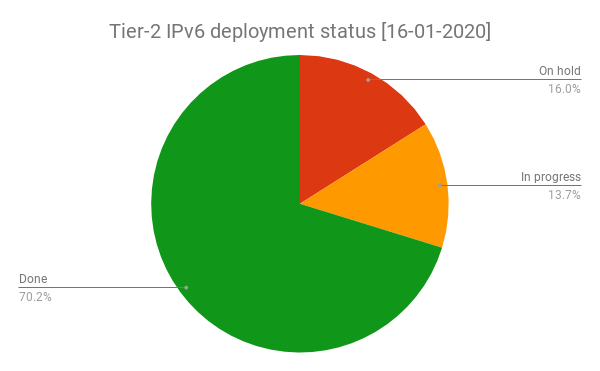
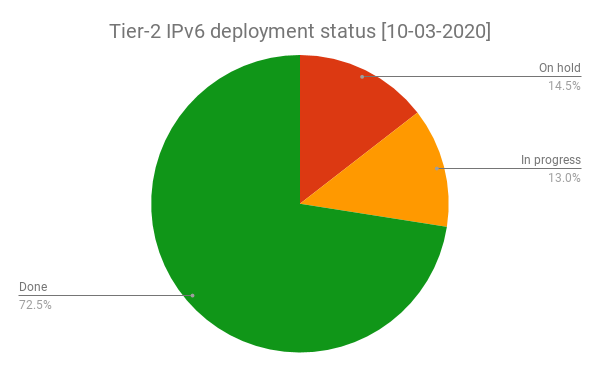
Updated T2 plots and added T1 storage numbers

diff --git a/chep2019_paper/subsection-2b-Tier2.tex b/chep2019_paper/subsection-2b-Tier2.tex
@@ -1,5 +1,5 @@
 \subsection{Deployment at Tier-2 sites}
-The deployment of IPv6 at Tier-2 sites is proceeding even after the
+The deployment of IPv6 at Tier-2 sites is still proceeding even after the
 official deadline expired at the end of 2018. It was decided not to
 give the deadline a formal extension, but just to encourage all
 remaining sites to complete the IPv6 deployment ``as soon as
@@ -9,7 +9,7 @@ most effective deadline would be imposed by the experiments
 themselves, if they wished, for example, to require IPv6 for
 production. This choice was confirmed by the steady progress observed
 during 2019, as it can be seen in figure~\ref{fig:t2depl}.
-\begin{figure}[b]
+\begin{figure}[h]
 \centering
 \includegraphics[width=6cm]{chart2}
 \includegraphics[width=6cm]{chart}
@@ -25,15 +25,17 @@ sites are those facing the biggest difficulties. A detailed analysis
 of the tickets shows that, in many cases, sites need to wait for the
 IPv6 deployment on site, which often depends on people different from
 the WLCG site staff. The fraction of the Tier-2 storage that is
-accessible via IPv6 is shown in table~\ref{tab:t2stor} for each experiment, and significant differences are apparent.
+accessible via IPv6 is shown in table~\ref{tab:t12stor} for each
+experiment, and significant differences are apparent.
 \begin{table}[h]
 \centering
-\caption{Fraction of Tier-2 storage available over IPv6}
-\label{tab:t2stor}
-\begin{tabular}{ccccc}
+\caption{Fraction of Tier-1 and Tier-2 storage available over IPv6}
+\label{tab:t12stor}
+\begin{tabular}{lccccc}
 \hline
-ALICE & ATLAS & CMS & LHCb & Global \\\hline
-85\% & 59\% & 89\% & 75\% & 73\% \\\hline
+& ALICE & ATLAS & CMS & LHCb & Global \\\hline
+Tier-1 storage & 78\% & 96\% & 100\% & 94\% & 96\% \\ 
+Tier-2 storage & 86\% & 59\% &  89\% & 75\% & 74\% \\\hline
 \end{tabular}
 \end{table}
 Two experiments (ALICE and CMS) are very close to having all their
